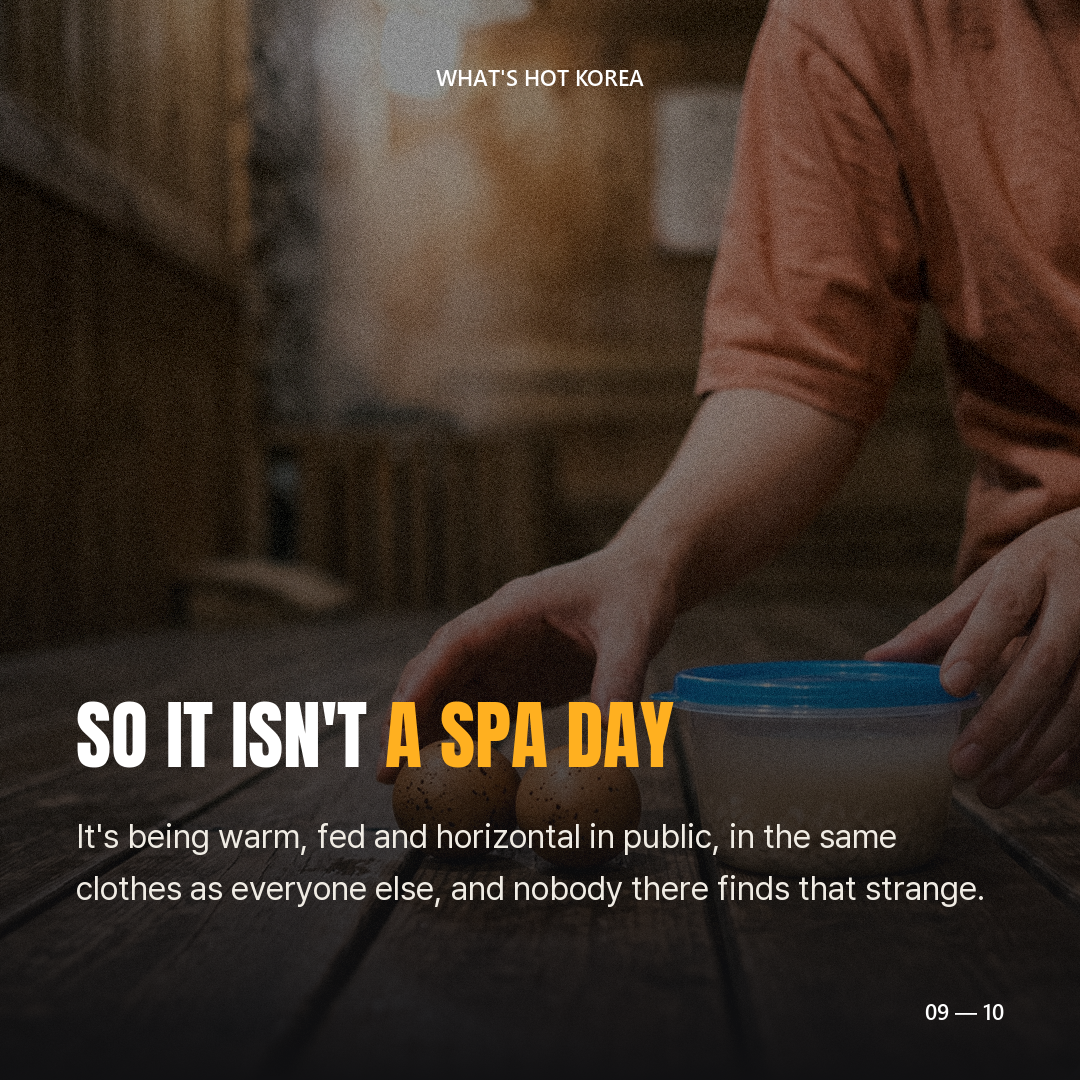
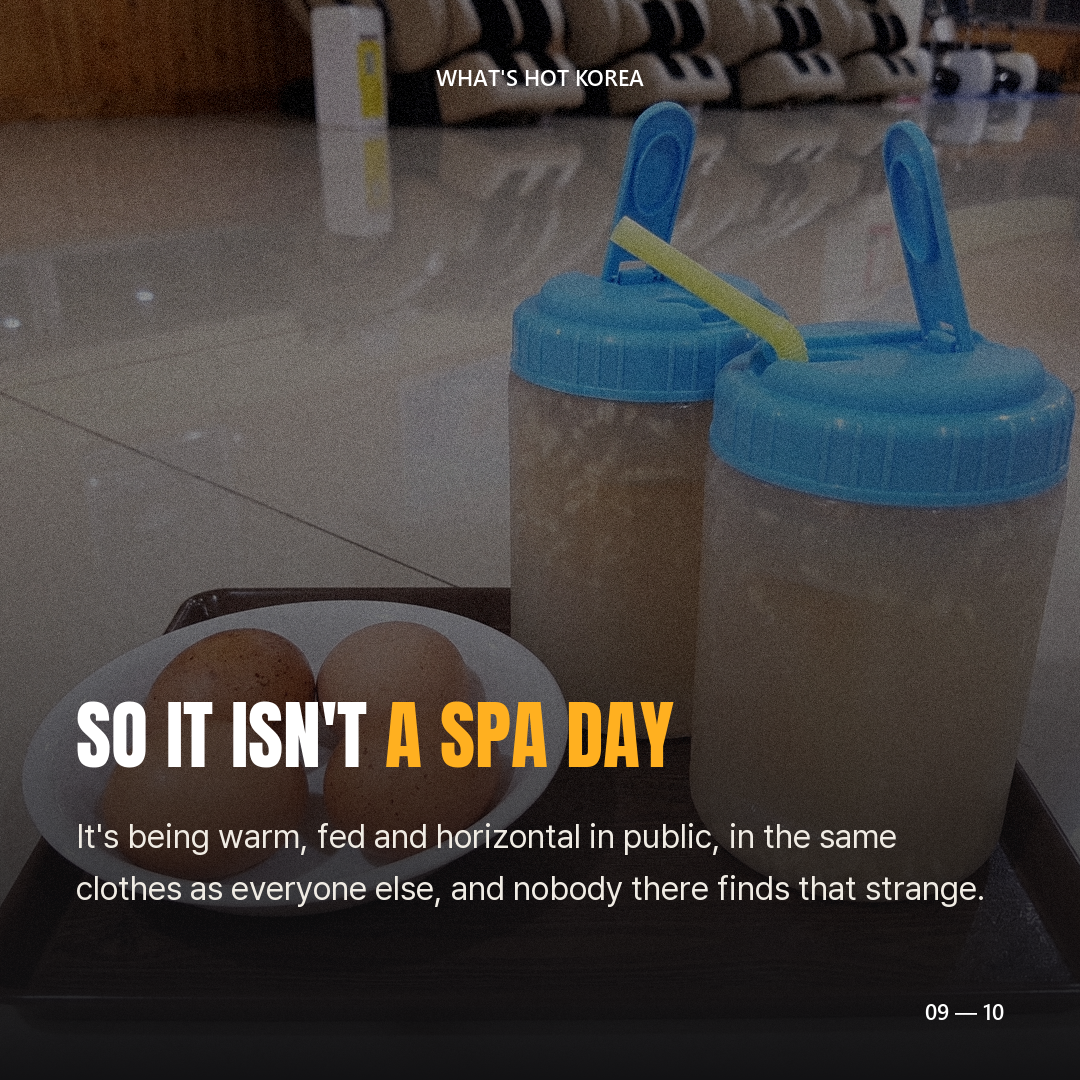
Use a real photo of the sauna egg-and-sikhye set for the ninth card
The generated shot was wrong twice: the eggs came out as round speckled
balls rather than the matte tan-brown roasted ones, and the sikhye ended
up in a sealed food container instead of the clear tub with a blue screw
lid and a straw that a jjimjilbang actually hands over.

A photograph of the real thing goes in for now, and the prompt is
rewritten to be pasted alongside it as a reference so the regenerated
version keeps the subject but drops the fluorescent tiled floor for the
dark wooden tone of the other nine cards. The reference itself is kept as
content9-reference.png.

The 12% watermark trim in make_cards.py now applies only to 1024x1024
images, which is what Gemini returns. A photograph carries no sparkle,
and trimming one cut the right-hand tub out of the frame.

Claude-Session: https://claude.ai/code/session_014BMaiCSE9XbmUyBZE4gUqE

diff --git a/make_cards.py b/make_cards.py
@@ -129,8 +129,12 @@ def grain(img, amount=9):
 
 def photo(path, darken=0.55, blur=0):
     img = Image.open(path).convert("RGB")
-    img = img.crop((0, 0, int(img.width * (1 - WATERMARK_TRIM)),
-                    int(img.height * (1 - WATERMARK_TRIM))))
+    # Only Gemini output carries the sparkle, and it always comes back 1024x1024.
+    # A real photograph dropped in here has no watermark, so trimming it would
+    # just eat a tenth of the frame.
+    if img.size == (1024, 1024):
+        img = img.crop((0, 0, int(img.width * (1 - WATERMARK_TRIM)),
+                        int(img.height * (1 - WATERMARK_TRIM))))
     side = min(img.size)
     img = img.crop(((img.width - side) // 2, (img.height - side) // 2,
                     (img.width + side) // 2, (img.height + side) // 2))

diff --git a/2026-09-05_토요일/PROMPTS.md b/2026-09-05_토요일/PROMPTS.md
@@ -121,20 +121,48 @@ No signboards, no lettering, no symbols anywhere on the building.
 
 ## content9.png — 계란과 식혜
 
+**실사진 한 장을 레퍼런스로 첨부하고** 아래를 붙여넣는다. 공통 규칙은 아래에 녹아 있으니
+따로 붙이지 않는다. 레퍼런스는 `assets/2026-09-05/content9-reference.png`.
+
 ```
-Floor-level close shot on a wooden sauna floor: two brown roasted eggs still in their
-speckled shells sitting beside a small round transparent plastic tub of sikhye, the Korean
-sweet rice drink. The tub is a plain clear plastic cup-sized container with a bright blue
-snap-on plastic lid, the lid still fitted on top, completely plain with no printing
-anywhere. Inside the tub the drink is pale milky beige with cooked rice grains settled at
-the bottom. Two hands reach in from the edge of the frame, sleeves of a loose muted
-salmon-orange cotton t-shirt. Warm overhead light.
+Use the attached photo as the reference for WHAT is in the picture, not for how it is lit.
+Recreate the same subject as a photorealistic documentary photograph, square 1:1 framing,
+contemporary South Korea.
+
+Keep from the reference, exactly: a dark brown plastic cafeteria tray; on the left a round
+white ceramic dish holding four roasted Korean sauna eggs with matte tan-brown shells
+mottled with darker scorch patches, ordinary egg shape, no speckles or dots; on the right
+two identical clear cylindrical plastic tubs of sikhye, the Korean sweet rice drink, each
+with a bright blue screw-on lid with a hinged blue flip tab standing open, one yellow
+plastic straw through the near tub's lid. The drink is pale milky beige with soft cooked
+white rice grains suspended through it, condensation on the outside of the tubs. The tubs
+are completely plain with no printing, no labels.
+
+Change the setting and the light: instead of a bright tiled floor under fluorescent light,
+place the tray on the warm wooden floor of a dim Korean sauna lounge, shot at floor level
+from a few steps back. Muted warm-neutral color grade, slight film grain, shallow depth of
+field, one warm overhead light. Background is blurred dark wood only, empty, no furniture,
+no chairs, no doorways.
+
+The tray sits in the upper two-thirds of the frame and the bottom third is plain empty
+floor so text can sit over it. No people, no hands. No text, no signage, no Hangul, no
+letters, no numbers, no logos, no brand marks, no watermarks.
 ```
 
-식혜는 **사기 그릇에 담기지 않는다.** 첫 버전이 `a plain bowl of pale sweet rice drink`
-였고 도자기 대접에 담긴 그림이 나왔는데, 찜질방 식혜는 **투명 플라스틱 통에 파란 스냅
-뚜껑**이 정석이다. `blue snap-on plastic lid`를 빼면 다시 그릇이 된다. 통에는 아무
-인쇄도 없어야 한다 — 라벨이 붙으면 공통 규칙의 `no text` 와 충돌한다.
+글로만 쓴 프롬프트로는 두 번 다 틀렸다. 세 번째에 실사진을 레퍼런스로 붙였다.
+
+- **용기** — 처음엔 `파란 스냅 뚜껑 통`, 다음엔 `투명 텀블러`로 썼는데 둘 다 반찬통이나
+  카페 컵이 나왔다. 실물은 **손잡이 없는 원통형 투명 통에 파란 나사 뚜껑**이고 뚜껑에
+  **경첩식 플립 탭**이 서 있고 **노란 빨대**가 꽂혀 있다. 이건 글로 재현이 안 돼서
+  사진을 붙이는 쪽이 빠르다.
+- **계란** — `speckled shells`로 쓰면 점박이 메추리알 같은 구가 나온다. 맥반석 계란은
+  점이 없다. **무광 황갈색에 거뭇한 얼룩**, 모양은 그냥 달걀이다. 흰 접시에 네 알.
+- **레퍼런스의 조명은 쓰지 않는다.** 실물 사진은 형광등 아래 타일 바닥이라 나머지
+  아홉 장의 어두운 나무 톤과 안 맞는다. 프롬프트에서 피사체만 가져오고 배경과 빛은
+  갈아끼우라고 명시해야 한다.
+
+`make_cards.py`의 12% 워터마크 트림은 이제 1024x1024 (제미나이 출력)에만 걸린다.
+실사진에는 ✦ 표시가 없는데 트림이 들어가면 오른쪽 통이 잘려 나갔다.
 
 ## cta.png — 새벽의 빈 복도
 
